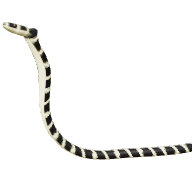
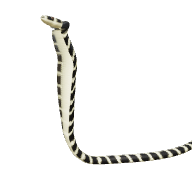
Round 17: king cobra menu pictures with the hood, Blender README on the hood
Claude-Session: https://claude.ai/code/session_0178i5uP1kqJaH7MisS9wMjZ

Changed region(s): [[0.0, 0.0625, 1.0, 0.875]]

diff --git a/tools/blender/README.md b/tools/blender/README.md
@@ -1902,8 +1902,13 @@ about 2 minutes each. `SK.small_scales()` draws small irregular scales (2D Worle
 - King cobra (KS 2.4, 3.7 m, `TEX=1024`): a slender body with 15 rows of big smooth scales, a big head with large
   plates and the pair of occipitals behind them, round pupils; olive brown with faint pale chevrons that point forward,
   clearer toward the darker tail, a cream-yellow throat. Hatchlings (`baby_paint`, 512 map): glossy black with narrow
-  yellow-white chevrons and pale bars across the head. In the game it rears up the front third of its body and spreads
-  its hood (`anim.rear`, `anim.hood`: the bones under the hood widen across).
+  yellow-white chevrons and pale bars across the head. In the game it rears up the front third of its body (the head
+  about 1.15 m up) and spreads its hood (`anim.rear`, `anim.hood`): the seven bones under the hood (from just behind the
+  head down about 9 head lengths, 1 m) widen across, up to about 2.5 times the body, and flatten, and a flap bone on
+  each side of each of them (`hood<i>L` / `R`, in the bone's own place, so they change nothing at rest) carries the
+  sides of the neck (`fix_weights` here moves sin(th)^3 of each hood bone's weight onto them) and curves them forward,
+  so the hood is cupped and reads from the side too. The hood's back is a lighter olive with two pale chevrons and its
+  edges are dark, so the spread outline shows.
 - Western diamondback rattlesnake (KS 1.45, 1.4 m, `TEX=768`): a heavy body on a thin neck, 25 rows of keeled scales, a
   broad triangular head with a heavy brow, the heat pit, small crown scales between the big brow plates, slit pupils;
   gray-brown with dark brown diamonds rimmed in cream, the dark eye stripe between pale lines, a black and white banded
@@ -1922,7 +1927,7 @@ about 2 minutes each. `SK.small_scales()` draws small irregular scales (2D Worle
   white chin and muzzle. Long fur shells (`len` 0.045, 6 layers, 2 at detail 1). Kittens are darker gray with faint
   marks.
 - Budget (files, about 4/3 of that in the page; texture memory with mipmaps on a computer and on a phone, where the
-  color and normal maps are capped at 512): king cobra 8.2k triangles, 182 KB (mesh 12, color 29, normal 122,
+  color and normal maps are capped at 512): king cobra 8.2k triangles, 186 KB (mesh 14, color 30, normal 121,
   hatchling 18 KB), about 12.6 MB / 4.2 MB; rattlesnake 9.6k triangles, 171 KB (16 + 38 + 116 KB), 6.3 MB / 2.8 MB;
   anaconda 8.2k triangles, 145 KB (15 + 36 + 93 KB), 6.3 MB / 2.8 MB; Pallas's cat 5.3k triangles plus 192 in the
   whiskers, 191 KB (53 + 78 + 35 + 4 + 12 + 5 KB), about 13.4 MB / 5 MB.
